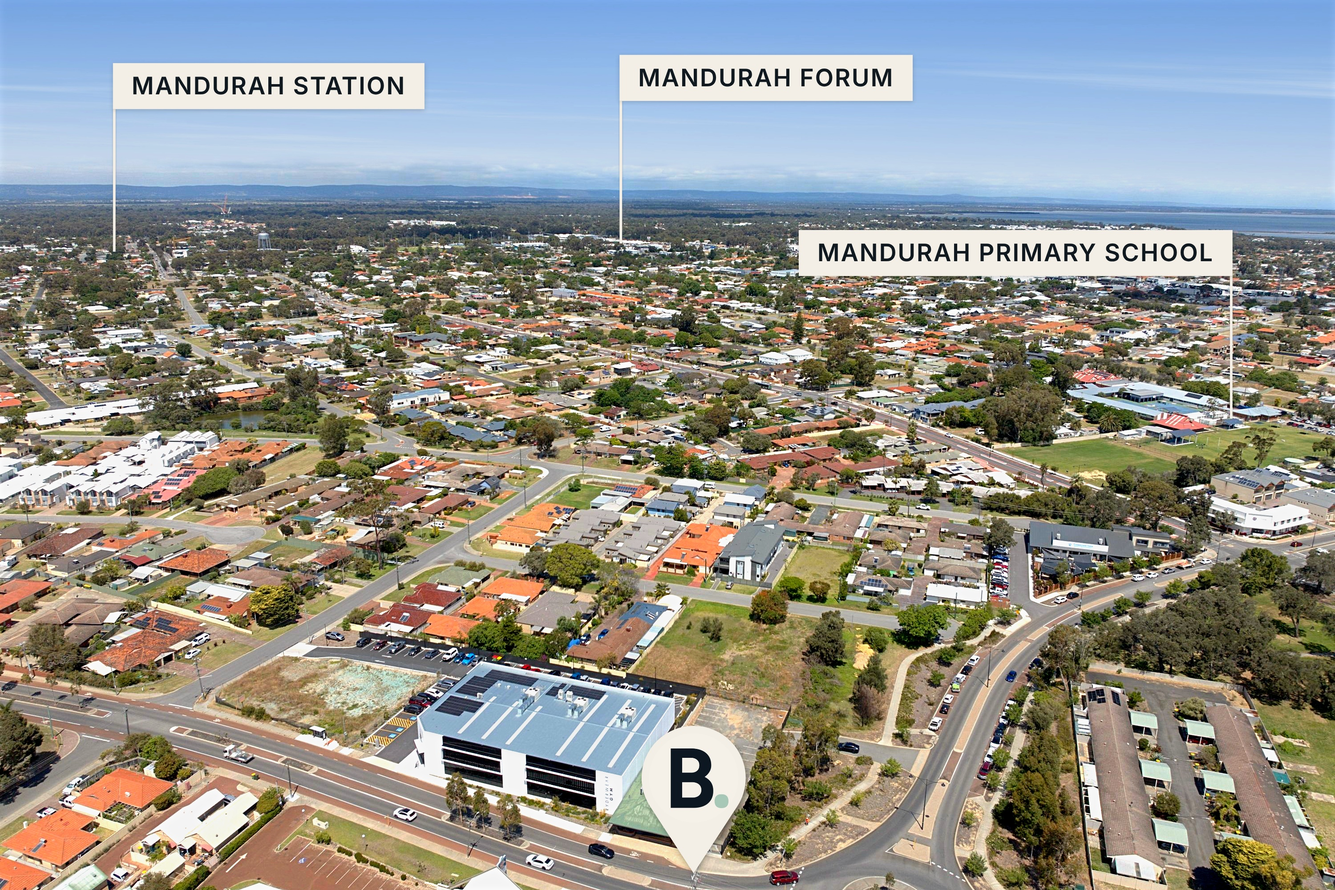
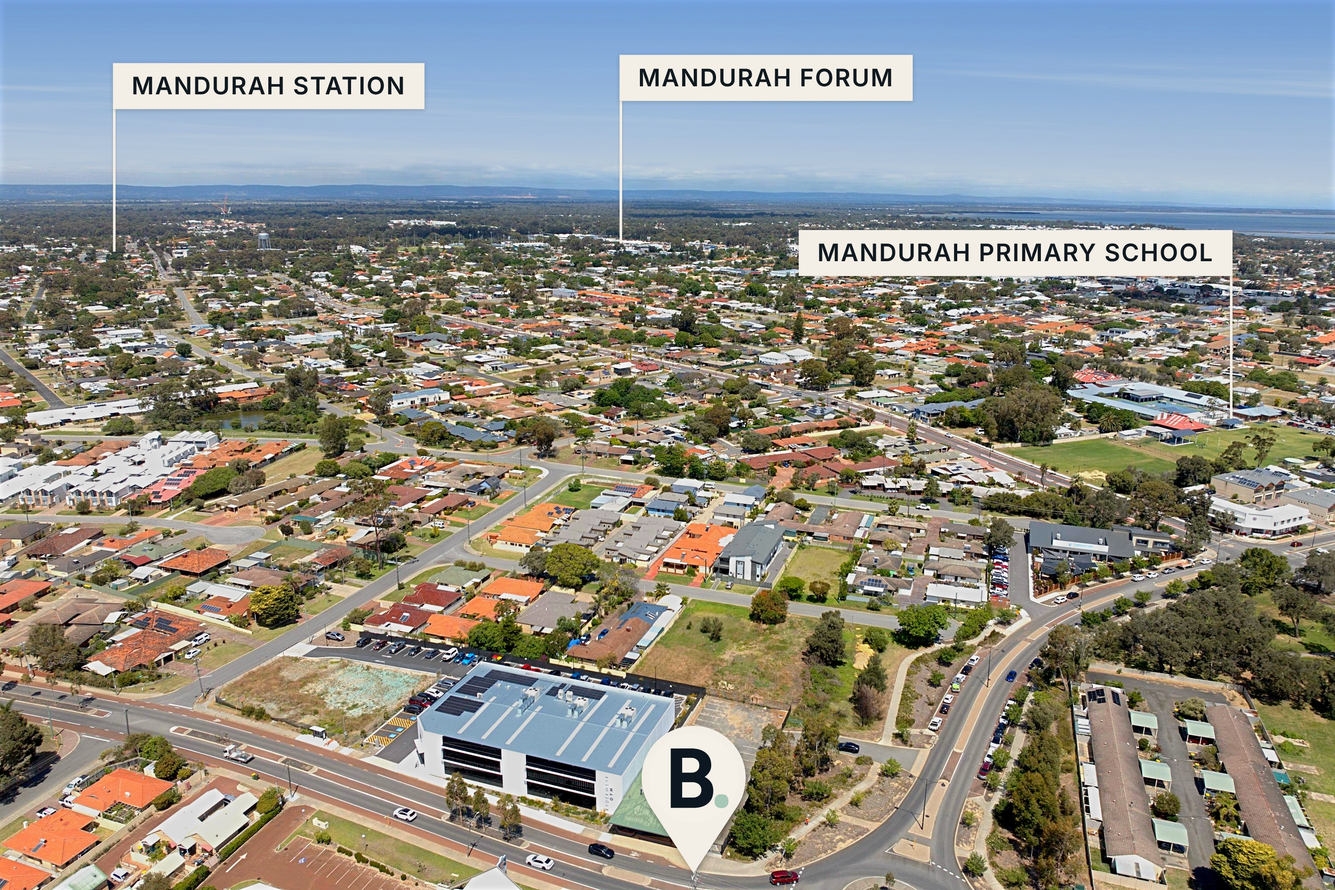
Editor: Bright parts recovers white roofs on land; Mandurah re-exported
Claude-Session: https://claude.ai/code/session_01A5qGg2LnJXxgSHoMQFvEEG

diff --git a/pins/index.html b/pins/index.html
@@ -1218,14 +1218,14 @@ function adjustedCanvas(src, a){
     for (let yy=0;yy<mh;yy++){ let s=0; for (let xx=0;xx<mw;xx++){ const j=(yy*mw+xx)*4; s+=Math.log(1+(.299*q[j]+.587*q[j+1]+.114*q[j+2])); } rowY[yy]=s/mw; }
     let hz=Math.round(mh*.35), best=1e9; for (let yy=Math.round(mh*.06); yy<Math.round(mh*.65); yy++){ const a0=rowY[Math.max(0,yy-3)]+rowY[Math.max(0,yy-2)]+rowY[Math.max(0,yy-1)], b0=rowY[Math.min(mh-1,yy+1)]+rowY[Math.min(mh-1,yy+2)]+rowY[Math.min(mh-1,yy+3)], dd=b0-a0; if (dd<best){ best=dd; hz=yy; } }   // horizon = sharpest bright-to-dark step
     for (let yy=0;yy<mh;yy++){ const rel=(yy-hz)/mh, vert = rel<0 ? 1 : 1-.2*Math.min(1,rel/.08);   /* 5 Nov (Jason): every bright part — sky, ocean, glare — not just the sky; slightly gentler below the horizon */
-      for (let xx=0;xx<mw;xx++){ const j=(yy*mw+xx)*4, Y=(.299*q[j]+.587*q[j+1]+.114*q[j+2])/255; let t=(Y-.42)/.3; t=t<0?0:t>1?1:t; t=t*t*(3-2*t); if (vert<1){ let bl=(q[j+2]-q[j])/40; bl=bl<0?0:bl>1?1:bl; let vb=(Y-.78)/.12; vb=vb<0?0:vb>1?1:vb; t=Math.max(t*bl, vb*.6)*vert; }   /* below the horizon: bright WATER (blue) + only the very brightest glare — land, roofs and sand untouched */ q[j]=q[j+1]=q[j+2]=255; q[j+3]=Math.round(t*255); } }
+      for (let xx=0;xx<mw;xx++){ const j=(yy*mw+xx)*4, Y=(.299*q[j]+.587*q[j+1]+.114*q[j+2])/255; let t=(Y-.42)/.3; t=t<0?0:t>1?1:t; t=t*t*(3-2*t); if (vert<1){ let bl=(q[j+2]-q[j])/40; bl=bl<0?0:bl>1?1:bl; let vb=(Y-.78)/.12; vb=vb<0?0:vb>1?1:vb; let rf=(Y-.62)/.26; rf=rf<0?0:rf>1?1:rf; rf=rf*rf*(3-2*rf); t=Math.max(t*bl, vb*.6, rf*.9);   /* 5 Nov (Jason): white roofs / bright buildings on the land too */ }   /* below the horizon: bright WATER (blue) + only the very brightest glare — land, roofs and sand untouched */ q[j]=q[j+1]=q[j+2]=255; q[j+3]=Math.round(t*255); } }
     m1x.putImageData(md,0,0);
     const m2=document.createElement("canvas"); m2.width=w; m2.height=h; const m2x=m2.getContext("2d"); m2x.imageSmoothingQuality="high";
     if ("filter" in m2x) m2x.filter=`blur(${Math.max(2,w/400)}px)`; m2x.drawImage(m1,0,0,w,h); m2x.filter="none";
     const M=m2x.getImageData(0,0,w,h).data, show=window.__showMask;
     for (let i=0;i<d.length;i+=4){ const f=M[i+3]/255*k; if (f<=0.002) continue;
       if (show){ d[i]=cl(d[i]*(1-.55*f)+255*.55*f); d[i+1]=cl(d[i+1]*(1-.55*f)); d[i+2]=cl(d[i+2]*(1-.55*f)); continue; }
-      let r=d[i]/255, g=d[i+1]/255, b=d[i+2]/255; const lift=1+.14*f; r=(r-f*(.30*r*r+.10))*lift; g=(g-f*(.30*g*g+.10))*lift; b=(b-f*(.30*b*b+.10))*lift;   // pull the haze down, keep clouds brighter than the blue
+      let r=d[i]/255, g=d[i+1]/255, b=d[i+2]/255; const lift=1+.10*f; r=(r-f*(.38*r*r+.06))*lift; g=(g-f*(.38*g*g+.06))*lift; b=(b-f*(.38*b*b+.06))*lift;   /* pulls the brightest values hardest — roofs get detail back */   // pull the haze down, keep clouds brighter than the blue
       const Y=.299*r+.587*g+.114*b, s2=1+.45*f; d[i]=cl((Y+(r-Y)*s2)*255); d[i+1]=cl((Y+(g-Y)*s2)*255); d[i+2]=cl((Y+(b-Y)*s2)*255); } }
   x.putImageData(id,0,0); return c;
 }
@@ -1398,7 +1398,8 @@ function autoBright(src){   /* 5 Nov (Jason): "auto make the highlights go down 
   let acc=0, p97=1; for (let k=63;k>=0;k--){ acc+=H[k]; if (acc>nl*.03){ p97=(k+.5)/64; break; } }   // brightest 3% of the land (white roofs, sand)
   const hl = p97>.9 ? -Math.min(20, Math.round((p97-.9)*250)) : 0;   /* gentle — only real blow-outs */
   const br = sw < mw*mh*.04 ? 0 : Math.max(0, Math.min(40, Math.round((sy/sw-.62)*200)));
-  return { bright:br, hl };
+  const brL = p97>.80 ? Math.min(45, Math.round((p97-.80)*300)) : 0;   /* bright roofs on the land also raise Bright parts */
+  return { bright:Math.max(br, brL), hl };
 }
 function autoAdj(p, src){ if (p.brightSet || p._autoDone===src || (p.adj && p.adj.bright) || p.editorPhoto || p.extraEdited) return; p._autoDone=src; const ab = autoBright(src); p.adj = Object.assign({}, ADJ0, p.adj||{}, { bright:ab.bright }, (p.adj && p.adj.hl) ? {} : { hl:ab.hl }); p._adj = null; }
 function ensureFinish(p){ if (p && (p.editorPhoto || p.extraEdited)){ p.finishOn = false; p.fin = null; return; }   /* 31 Oct: editor photos are never re-finished */
